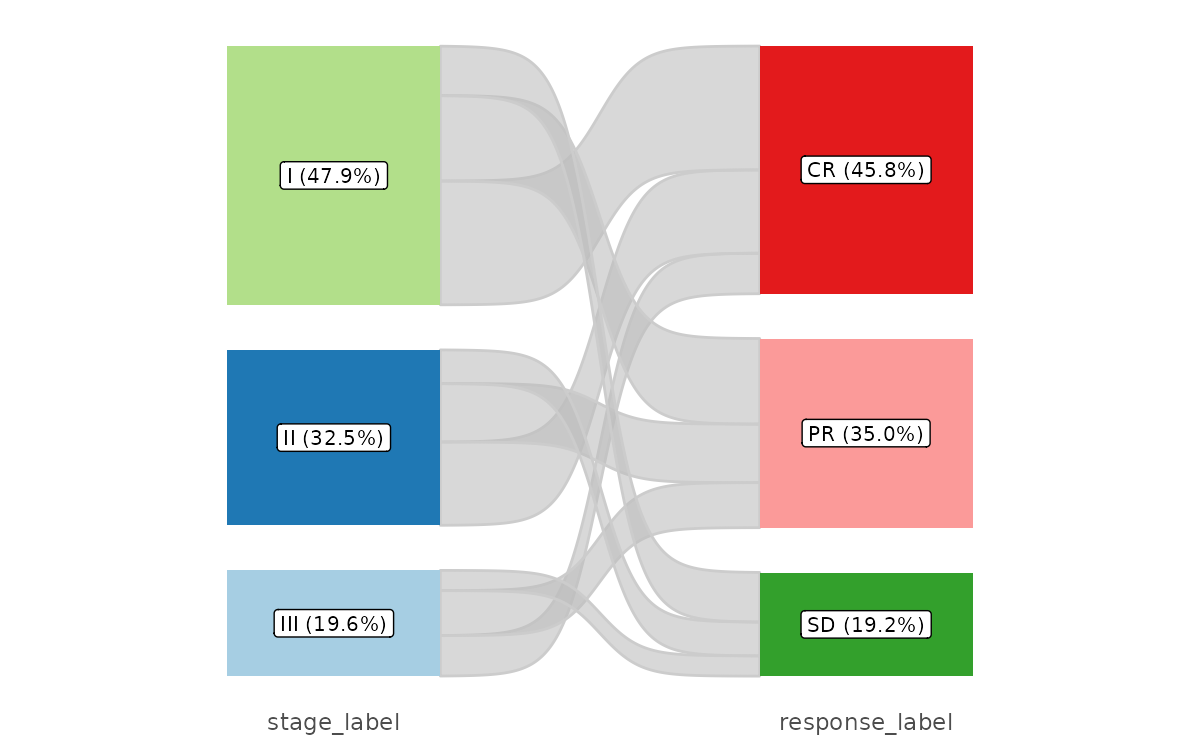
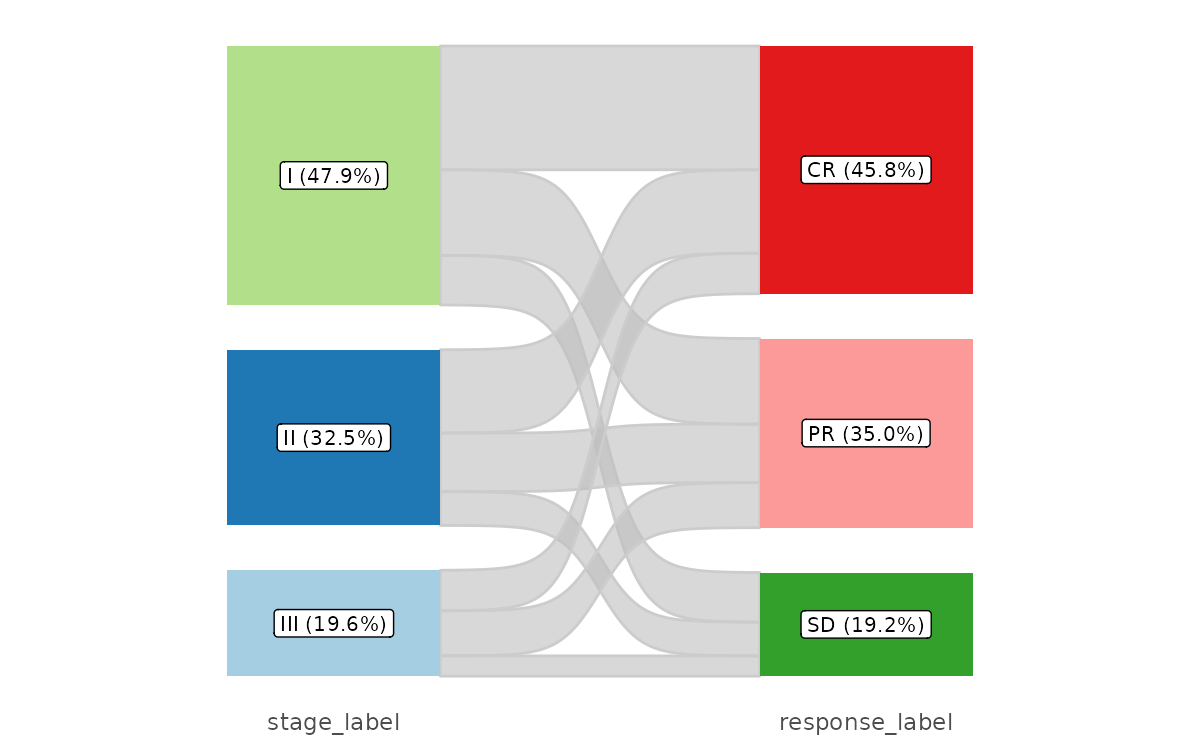
Update Sankey examples for grouped styling and direct PDF saving

diff --git a/docs/utilsr/flow-guide.html b/docs/utilsr/flow-guide.html
@@ -6,7 +6,7 @@
 
 <meta name="viewport" content="width=device-width, initial-scale=1.0, user-scalable=yes">
 
-<meta name="description" content="plt_dist 的分派，plt_alluvial 的比例、间隔和命名 list，plt_sankey 的节点次序与标签；22 个实际图形示例。">
+<meta name="description" content="plt_dist 的分派，plt_alluvial 的比例、间隔和命名 list，plt_sankey 的节点次序与标签；26 个实际图形示例。">
 
 <title>分类分布与流向：堆积柱、Alluvial 和 Sankey – R 包开发笔记</title>
 <style>
@@ -1021,9 +1021,9 @@ pre > code.sourceCode > span > a:first-child::before { text-decoration: underlin
       </div>
       <ul id="quarto-sidebar-section-27" class="collapse list-unstyled sidebar-section depth1 ">
           <li class="sidebar-item">
-<div class="sidebar-item-container">
-<a class="sidebar-item-text sidebar-link" href="../troubleshooting/windows-r-encoding-nul.html"><span class="chapter-title">Windows R 编码与旧缓存</span></a>
-</div>
+  <div class="sidebar-item-container">
+  <a href="../troubleshooting/windows-r-encoding-nul.html" class="sidebar-item-text sidebar-link"><span class="chapter-title">Windows R 编码与旧缓存</span></a>
+  </div>
 </li>
           <li class="sidebar-item">
   <div class="sidebar-item-container">
@@ -1060,6 +1060,7 @@ pre > code.sourceCode > span > a:first-child::before { text-decoration: underlin
   <li><a href="#标签内容与筛选" id="toc-标签内容与筛选" class="nav-link" data-scroll-target="#标签内容与筛选">标签内容与筛选</a></li>
   <li><a href="#节点路径与标签" id="toc-节点路径与标签" class="nav-link" data-scroll-target="#节点路径与标签">节点路径与标签</a></li>
   <li><a href="#真实保存示例" id="toc-真实保存示例" class="nav-link" data-scroll-target="#真实保存示例">真实保存示例</a></li>
+  <li><a href="#sankey-controls" id="toc-sankey-controls" class="nav-link" data-scroll-target="#sankey-controls">标签映射、显示与保存</a></li>
   <li><a href="#output" id="toc-output" class="nav-link" data-scroll-target="#output">返回对象、保存与使用边界</a></li>
   <li><a href="#interfaces" id="toc-interfaces" class="nav-link" data-scroll-target="#interfaces">当前完整接口</a></li>
   <li><a href="#references" id="toc-references" class="nav-link" data-scroll-target="#references">验证范围与参考</a></li>
@@ -1090,7 +1091,7 @@ pre > code.sourceCode > span > a:first-child::before { text-decoration: underlin
     <div>
     <div class="quarto-title-meta-heading">修改于</div>
     <div class="quarto-title-meta-contents">
-      <p class="date-modified">2026年10月10日</p>
+      <p class="date-modified">2026年10月12日</p>
     </div>
   </div>
 
@@ -1102,7 +1103,7 @@ pre > code.sourceCode > span > a:first-child::before { text-decoration: underlin
 
 
 <p>plt_dist 的分派，plt_alluvial 的比例、间隔和命名 list，plt_sankey 的节点次序与标签。各节用固定输入比较重要参数，标签页中展示可复制代码与实际结果。</p>
-<p><strong>核对记录：</strong> 本次按公开源码 <code>85ea172</code> 在 WSL R 4.4.3 实际绘制一张两行 Sankey 标签图，并核对换行前后的计数和百分比相同。既有 21 张图保留历史执行结果，全页现有 22 张实际图形。包版本仍为 UtilsR <strong>0.6.8</strong>；使用固定随机种子的模拟数据。</p>
+<p><strong>核对记录：</strong> 2026-10-12 按已推送 UtilsR <code>fc078ec</code> 的接口执行 10 个 Sankey 示例，重绘旧图并新增 4 张参数对照图，实际核验节点计数与 PDF 保存。其余 Alluvial / bar 图保留原执行结果；全页现有 26 张图。包版本仍为 0.6.8，需按提交判断是否支持命名 list 参数。</p>
 <section id="data" class="level2">
 <h2 class="anchored" data-anchor-id="data">数据准备与输入约定</h2>
 <p>每行是一条模拟观测，stage、regimen、response 是同一行的分类属性。tile_dat 专用于每格唯一的类别矩阵，与行级流向数据分别准备。</p>
@@ -1188,13 +1189,13 @@ pre > code.sourceCode > span > a:first-child::before { text-decoration: underlin
 </tr>
 <tr class="odd">
 <td style="text-align: left;">Sankey 标签</td>
-<td style="text-align: left;"><code>show_text="all"</code>、<code>label_size=3</code>、<code>label_hjust=0.5</code></td>
-<td style="text-align: left;">all/n/pct/name/all_wrap；百分比分母是输入总行数</td>
+<td style="text-align: left;"><code>show_text="all"</code>、<code>label_args=list(size=3,lineheight=1.2,hjust=0.5,...)</code></td>
+<td style="text-align: left;">all/n/pct/name/all_wrap/none；百分比分母是输入总行数</td>
 </tr>
 <tr class="even">
 <td style="text-align: left;">Sankey 外观</td>
-<td style="text-align: left;"><code>width=0.4</code>、<code>space=NULL</code>、<code>alpha=0.6</code>、<code>palette=NULL</code></td>
-<td style="text-align: left;">palette 控制节点填色，当前流带固定灰色；alpha 改流带透明度</td>
+<td style="text-align: left;"><code>node_args</code> 控制宽度和间隔；<code>flow_args</code> 控制颜色与透明度</td>
+<td style="text-align: left;">palette 只控制节点填色；各 list 支持部分覆盖，未知或重复字段报错</td>
 </tr>
 </tbody>
 </table>
@@ -1402,7 +1403,7 @@ pre > code.sourceCode > span > a:first-child::before { text-decoration: underlin
 <div class="code-copy-outer-scaffold"><div class="sourceCode" id="cb17"><pre class="sourceCode r code-with-copy"><code class="sourceCode r"><span id="cb17-1"><a href="#cb17-1" aria-hidden="true" tabindex="-1"></a><span class="fu">plt_sankey</span>(dat, <span class="fu">c</span>(<span class="st">"stage"</span>, <span class="st">"response"</span>))</span></code></pre></div><button title="复制到剪贴板" class="code-copy-button"><i class="bi"></i></button></div>
 <div class="quarto-figure quarto-figure-center">
 <figure class="figure">
-<p><a href="images/flow-guide/sankey-two.png" class="lightbox" data-gallery="quarto-lightbox-gallery-16" title="每一行在两列变量之间形成连接；节点人数和比例使用全体输入行。"><img src="images/flow-guide/sankey-two.png" class="img-fluid figure-img" alt="分类分布与流向：堆积柱、Alluvial 和 Sankey；两列节点路径；固定模拟数据的实际参数对照结果。" loading="lazy" decoding="async" width="1200" height="750" srcset="../assets/figure-previews/ca2f9d970665852a75013dc9897a15d5.webp"></a></p>
+<p><a href="images/flow-guide/sankey-two.png" class="lightbox" data-gallery="quarto-lightbox-gallery-16" title="每一行在两列变量之间形成连接；节点人数和比例使用全体输入行。"><img src="images/flow-guide/sankey-two.png" class="img-fluid figure-img" alt="分类分布与流向：堆积柱、Alluvial 和 Sankey；两列节点路径；固定模拟数据的实际参数对照结果。" loading="lazy" decoding="async" width="1200" height="750" srcset="../assets/figure-previews/e30ae6d0297927b88d1943f90a6abb12.webp"></a></p>
 <figcaption>每一行在两列变量之间形成连接；节点人数和比例使用全体输入行。</figcaption>
 </figure>
 </div>
@@ -1412,7 +1413,7 @@ pre > code.sourceCode > span > a:first-child::before { text-decoration: underlin
 <div class="code-copy-outer-scaffold"><div class="sourceCode" id="cb18"><pre class="sourceCode r code-with-copy"><code class="sourceCode r"><span id="cb18-1"><a href="#cb18-1" aria-hidden="true" tabindex="-1"></a><span class="fu">plt_sankey</span>(dat, <span class="fu">c</span>(<span class="st">"stage"</span>, <span class="st">"regimen"</span>, <span class="st">"response"</span>), <span class="at">show_text =</span> <span class="st">"all"</span>)</span></code></pre></div><button title="复制到剪贴板" class="code-copy-button"><i class="bi"></i></button></div>
 <div class="quarto-figure quarto-figure-center">
 <figure class="figure">
-<p><a href="images/flow-guide/sankey-three.png" class="lightbox" data-gallery="quarto-lightbox-gallery-17" title="三个变量按顺序显示，同一行的组合形成完整路径；不自动产生时间或因果含义。"><img src="images/flow-guide/sankey-three.png" class="img-fluid figure-img" alt="分类分布与流向：堆积柱、Alluvial 和 Sankey；三列节点路径；固定模拟数据的实际参数对照结果。" loading="lazy" decoding="async" width="1650" height="750" srcset="../assets/figure-previews/dac32c0af2d4d10f6a3565cc2501f416.webp"></a></p>
+<p><a href="images/flow-guide/sankey-three.png" class="lightbox" data-gallery="quarto-lightbox-gallery-17" title="三个变量按顺序显示，同一行的组合形成完整路径；不自动产生时间或因果含义。"><img src="images/flow-guide/sankey-three.png" class="img-fluid figure-img" alt="分类分布与流向：堆积柱、Alluvial 和 Sankey；三列节点路径；固定模拟数据的实际参数对照结果。" loading="lazy" decoding="async" width="1650" height="750" srcset="../assets/figure-previews/845ac85983d7793fa17b01a103a7f3da.webp"></a></p>
 <figcaption>三个变量按顺序显示，同一行的组合形成完整路径；不自动产生时间或因果含义。</figcaption>
 </figure>
 </div>
@@ -1430,21 +1431,22 @@ pre > code.sourceCode > span > a:first-child::before { text-decoration: underlin
 <div id="tabset-5-4" class="tab-pane" role="tabpanel" aria-labelledby="tabset-5-4-tab">
 <p>palette 改节点色，流带仍为灰色；百分比是节点在输入总行数中的比例。</p>
 <div class="code-copy-outer-scaffold"><div class="sourceCode" id="cb20"><pre class="sourceCode r code-with-copy"><code class="sourceCode r"><span id="cb20-1"><a href="#cb20-1" aria-hidden="true" tabindex="-1"></a><span class="fu">plt_sankey</span>(dat, <span class="fu">c</span>(<span class="st">"stage"</span>, <span class="st">"response"</span>), <span class="at">show_text =</span> <span class="st">"pct"</span>,</span>
-<span id="cb20-2"><a href="#cb20-2" aria-hidden="true" tabindex="-1"></a>           <span class="at">palette =</span> <span class="st">"Paired"</span>, <span class="at">label_size =</span> <span class="fl">3.5</span>)</span></code></pre></div><button title="复制到剪贴板" class="code-copy-button"><i class="bi"></i></button></div>
+<span id="cb20-2"><a href="#cb20-2" aria-hidden="true" tabindex="-1"></a>           <span class="at">palette =</span> <span class="st">"Paired"</span>, <span class="at">label_args =</span> <span class="fu">list</span>(<span class="at">size =</span> <span class="fl">3.5</span>))</span></code></pre></div><button title="复制到剪贴板" class="code-copy-button"><i class="bi"></i></button></div>
 <div class="quarto-figure quarto-figure-center">
 <figure class="figure">
-<p><a href="images/flow-guide/sankey-percent.png" class="lightbox" data-gallery="quarto-lightbox-gallery-19" title="palette 改节点色，流带仍为灰色；百分比是节点在输入总行数中的比例。"><img src="images/flow-guide/sankey-percent.png" class="img-fluid figure-img" alt="分类分布与流向：堆积柱、Alluvial 和 Sankey；百分比标签；固定模拟数据的实际参数对照结果。" loading="lazy" decoding="async" width="1200" height="750" srcset="../assets/figure-previews/4e309a332780de4361e8fa0d517396e9.webp"></a></p>
+<p><a href="images/flow-guide/sankey-percent.png" class="lightbox" data-gallery="quarto-lightbox-gallery-19" title="palette 改节点色，流带仍为灰色；百分比是节点在输入总行数中的比例。"><img src="images/flow-guide/sankey-percent.png" class="img-fluid figure-img" alt="分类分布与流向：堆积柱、Alluvial 和 Sankey；百分比标签；固定模拟数据的实际参数对照结果。" loading="lazy" decoding="async" width="1200" height="750" srcset="../assets/figure-previews/c2c5e7ac3790a60891e9b694a6a71a79.webp"></a></p>
 <figcaption>palette 改节点色，流带仍为灰色；百分比是节点在输入总行数中的比例。</figcaption>
 </figure>
 </div>
 </div>
 <div id="tabset-5-5" class="tab-pane" role="tabpanel" aria-labelledby="tabset-5-5-tab">
 <p>space=0 移除节点间隔，width 控制节点和端点宽度；标签显示名称与人数。</p>
-<div class="code-copy-outer-scaffold"><div class="sourceCode" id="cb21"><pre class="sourceCode r code-with-copy"><code class="sourceCode r"><span id="cb21-1"><a href="#cb21-1" aria-hidden="true" tabindex="-1"></a><span class="fu">plt_sankey</span>(dat, <span class="fu">c</span>(<span class="st">"stage"</span>, <span class="st">"regimen"</span>, <span class="st">"response"</span>), <span class="at">width =</span> <span class="fl">0.25</span>, <span class="at">space =</span> <span class="dv">0</span>,</span>
-<span id="cb21-2"><a href="#cb21-2" aria-hidden="true" tabindex="-1"></a>           <span class="at">alpha =</span> <span class="fl">0.35</span>, <span class="at">show_text =</span> <span class="st">"n"</span>, <span class="at">label_size =</span> <span class="dv">3</span>, <span class="at">base_size =</span> <span class="dv">13</span>)</span></code></pre></div><button title="复制到剪贴板" class="code-copy-button"><i class="bi"></i></button></div>
+<div class="code-copy-outer-scaffold"><div class="sourceCode" id="cb21"><pre class="sourceCode r code-with-copy"><code class="sourceCode r"><span id="cb21-1"><a href="#cb21-1" aria-hidden="true" tabindex="-1"></a><span class="fu">plt_sankey</span>(dat, <span class="fu">c</span>(<span class="st">"stage"</span>, <span class="st">"regimen"</span>, <span class="st">"response"</span>),</span>
+<span id="cb21-2"><a href="#cb21-2" aria-hidden="true" tabindex="-1"></a>  <span class="at">node_args =</span> <span class="fu">list</span>(<span class="at">width =</span> <span class="fl">0.25</span>, <span class="at">space =</span> <span class="dv">0</span>), <span class="at">flow_args =</span> <span class="fu">list</span>(<span class="at">alpha =</span> <span class="fl">0.35</span>),</span>
+<span id="cb21-3"><a href="#cb21-3" aria-hidden="true" tabindex="-1"></a>  <span class="at">show_text =</span> <span class="st">"n"</span>, <span class="at">label_args =</span> <span class="fu">list</span>(<span class="at">size =</span> <span class="dv">3</span>), <span class="at">base_size =</span> <span class="dv">13</span>)</span></code></pre></div><button title="复制到剪贴板" class="code-copy-button"><i class="bi"></i></button></div>
 <div class="quarto-figure quarto-figure-center">
 <figure class="figure">
-<p><a href="images/flow-guide/sankey-space.png" class="lightbox" data-gallery="quarto-lightbox-gallery-20" title="space=0 移除节点间隔，width 控制节点和端点宽度；标签显示名称与人数。"><img src="images/flow-guide/sankey-space.png" class="img-fluid figure-img" alt="分类分布与流向：堆积柱、Alluvial 和 Sankey；宽度、间隔和透明度；固定模拟数据的实际参数对照结果。" loading="lazy" decoding="async" width="1650" height="750" srcset="../assets/figure-previews/fa87cd199538167d38c049e3714a6311.webp"></a></p>
+<p><a href="images/flow-guide/sankey-space.png" class="lightbox" data-gallery="quarto-lightbox-gallery-20" title="space=0 移除节点间隔，width 控制节点和端点宽度；标签显示名称与人数。"><img src="images/flow-guide/sankey-space.png" class="img-fluid figure-img" alt="分类分布与流向：堆积柱、Alluvial 和 Sankey；宽度、间隔和透明度；固定模拟数据的实际参数对照结果。" loading="lazy" decoding="async" width="1650" height="750" srcset="../assets/figure-previews/7ba01320f474ee80f3f0378fa122266a.webp"></a></p>
 <figcaption>space=0 移除节点间隔，width 控制节点和端点宽度；标签显示名称与人数。</figcaption>
 </figure>
 </div>
@@ -1478,21 +1480,78 @@ pre > code.sourceCode > span > a:first-child::before { text-decoration: underlin
 <p><code>show_text = "all_wrap"</code> 把组名放在第一行，把人数和百分比放在第二行，适合窄节点或较长名称。默认 <code>"all"</code> 仍为单行，两个设置的节点计数、流量和百分比分母相同。本例沿用前文同一份 240 行模拟数据，没有因换行筛掉任何观察。</p>
 <!-- sankey-wrap:start -->
 <div class="code-copy-outer-scaffold"><div class="sourceCode" id="cb23"><pre class="sourceCode r code-with-copy"><code class="sourceCode r"><span id="cb23-1"><a href="#cb23-1" aria-hidden="true" tabindex="-1"></a>p_wrap <span class="ot">&lt;-</span> <span class="fu">plt_sankey</span>(dat, <span class="fu">c</span>(<span class="st">"stage"</span>, <span class="st">"regimen"</span>, <span class="st">"response"</span>),</span>
-<span id="cb23-2"><a href="#cb23-2" aria-hidden="true" tabindex="-1"></a>  <span class="at">show_text =</span> <span class="st">"all_wrap"</span>, <span class="at">label_size =</span> <span class="dv">3</span>, <span class="at">label_hjust =</span> <span class="fl">0.5</span>)</span>
+<span id="cb23-2"><a href="#cb23-2" aria-hidden="true" tabindex="-1"></a>  <span class="at">show_text =</span> <span class="st">"all_wrap"</span>, <span class="at">label_args =</span> <span class="fu">list</span>(<span class="at">size =</span> <span class="dv">3</span>, <span class="at">hjust =</span> <span class="fl">0.5</span>))</span>
 <span id="cb23-3"><a href="#cb23-3" aria-hidden="true" tabindex="-1"></a>p_wrap</span></code></pre></div><button title="复制到剪贴板" class="code-copy-button"><i class="bi"></i></button></div>
 <!-- sankey-wrap:end -->
 <div class="quarto-figure quarto-figure-center">
 <figure class="figure">
-<p><a href="images/flow-guide/sankey-wrap.png" class="lightbox" data-gallery="quarto-lightbox-gallery-22" title="组名在第一行，人数与百分比在第二行；240 人在三列间的流量保持不变。"><img src="images/flow-guide/sankey-wrap.png" class="img-fluid figure-img" alt="三列 Sankey 图使用两行节点标签，第一行为组名，第二行为人数和占 240 人的百分比。" loading="lazy" decoding="async" width="1350" height="900" srcset="../assets/figure-previews/ac9bf3721eb365404113b752b5a37a35.webp"></a></p>
+<p><a href="images/flow-guide/sankey-wrap.png" class="lightbox" data-gallery="quarto-lightbox-gallery-22" title="组名在第一行，人数与百分比在第二行；240 人在三列间的流量保持不变。"><img src="images/flow-guide/sankey-wrap.png" class="img-fluid figure-img" alt="三列 Sankey 图使用两行节点标签，第一行为组名，第二行为人数和占 240 人的百分比。" loading="lazy" decoding="async" width="1350" height="900" srcset="../assets/figure-previews/171324298be634eaf96844893228a9a0.webp"></a></p>
 <figcaption>组名在第一行，人数与百分比在第二行；240 人在三列间的流量保持不变。</figcaption>
 </figure>
 </div>
-<p>源码：<a href="https://github.com/HUI950319/UtilsR/blob/85ea172/R/plt_sankey.R">多行 Sankey 标签</a>。长标签仍应结合 label_size、设备尺寸和节点间距调整。</p>
+<p>源码：<a href="https://github.com/HUI950319/UtilsR/blob/fc078ec/R/plt_sankey.R">当前 Sankey 接口</a>。旧 <code>alpha</code> 改为 <code>flow_args$alpha</code>，<code>width/space</code> 改入 <code>node_args</code>，<code>label_size/label_hjust</code> 改为 <code>label_args$size/hjust</code>。长标签结合设备尺寸、节点间距及行距调整。</p>
 </section>
+</section>
+<section id="sankey-controls" class="level2">
+<h2 class="anchored" data-anchor-id="sankey-controls">标签映射、显示与保存</h2>
+<p><code>vars</code> 的命名向量将真实列名映射为显示标题；空标题隐藏该轴标签，换行保留。重复类别名在不同变量中仍为独立节点，不会错误合并流量。<code>min_pct</code> 只隐藏小类别的文字，不删除观察、节点或流带。</p>
+<div class="tabset-margin-container"></div><div class="panel-tabset">
+<ul class="nav nav-tabs" role="tablist"><li class="nav-item" role="presentation"><a class="nav-link active" id="tabset-7-1-tab" data-bs-toggle="tab" data-bs-target="#tabset-7-1" role="tab" aria-controls="tabset-7-1" aria-selected="true" href="">标题映射与紧凑行距</a></li><li class="nav-item" role="presentation"><a class="nav-link" id="tabset-7-2-tab" data-bs-toggle="tab" data-bs-target="#tabset-7-2" role="tab" aria-controls="tabset-7-2" aria-selected="false" href="">纯文字与小类别阈值</a></li><li class="nav-item" role="presentation"><a class="nav-link" id="tabset-7-3-tab" data-bs-toggle="tab" data-bs-target="#tabset-7-3" role="tab" aria-controls="tabset-7-3" aria-selected="false" href="">流带与节点边界</a></li><li class="nav-item" role="presentation"><a class="nav-link" id="tabset-7-4-tab" data-bs-toggle="tab" data-bs-target="#tabset-7-4" role="tab" aria-controls="tabset-7-4" aria-selected="false" href="">隐藏标签并直接保存</a></li></ul>
+<div class="tab-content">
+<div id="tabset-7-1" class="tab-pane active" role="tabpanel" aria-labelledby="tabset-7-1-tab">
+<div class="code-copy-outer-scaffold"><div class="sourceCode" id="cb24"><pre class="sourceCode r code-with-copy"><code class="sourceCode r"><span id="cb24-1"><a href="#cb24-1" aria-hidden="true" tabindex="-1"></a>p_mapped <span class="ot">&lt;-</span> <span class="fu">plt_sankey</span>(dat, <span class="fu">c</span>(<span class="at">stage =</span> <span class="st">"Disease stage"</span>, <span class="at">regimen =</span> <span class="st">"Treatment"</span>, <span class="at">response =</span> <span class="st">"Response"</span>),</span>
+<span id="cb24-2"><a href="#cb24-2" aria-hidden="true" tabindex="-1"></a>  <span class="at">show_text =</span> <span class="st">"all_wrap"</span>, <span class="at">label_args =</span> <span class="fu">list</span>(<span class="at">lineheight =</span> <span class="fl">0.9</span>))</span>
+<span id="cb24-3"><a href="#cb24-3" aria-hidden="true" tabindex="-1"></a>p_mapped</span></code></pre></div><button title="复制到剪贴板" class="code-copy-button"><i class="bi"></i></button></div>
+<div class="quarto-figure quarto-figure-center">
+<figure class="figure">
+<p><a href="images/flow-guide/sankey-mapped.png" class="lightbox" data-gallery="quarto-lightbox-gallery-23" title="标题改为显示文字，标签的两行间距缩小。"><img src="images/flow-guide/sankey-mapped.png" class="img-fluid figure-img" alt="三列 Sankey 使用映射后的英文轴标题，两行节点标签保持计数和百分比，行距为0.9。" loading="lazy" decoding="async" width="1350" height="900" srcset="../assets/figure-previews/9eadbab6c7bc839e5f6a8eb50c189d42.webp"></a></p>
+<figcaption>标题改为显示文字，标签的两行间距缩小。</figcaption>
+</figure>
+</div>
+</div>
+<div id="tabset-7-2" class="tab-pane" role="tabpanel" aria-labelledby="tabset-7-2-tab">
+<div class="code-copy-outer-scaffold"><div class="sourceCode" id="cb25"><pre class="sourceCode r code-with-copy"><code class="sourceCode r"><span id="cb25-1"><a href="#cb25-1" aria-hidden="true" tabindex="-1"></a>p_plain <span class="ot">&lt;-</span> <span class="fu">plt_sankey</span>(dat, <span class="fu">c</span>(<span class="st">"stage"</span>, <span class="st">"regimen"</span>, <span class="st">"response"</span>),</span>
+<span id="cb25-2"><a href="#cb25-2" aria-hidden="true" tabindex="-1"></a>  <span class="at">label_args =</span> <span class="fu">list</span>(<span class="at">box =</span> <span class="cn">FALSE</span>, <span class="at">min_pct =</span> <span class="fl">0.2</span>, <span class="at">color =</span> <span class="st">"#263238"</span>))</span>
+<span id="cb25-3"><a href="#cb25-3" aria-hidden="true" tabindex="-1"></a>p_plain</span></code></pre></div><button title="复制到剪贴板" class="code-copy-button"><i class="bi"></i></button></div>
+<div class="quarto-figure quarto-figure-center">
+<figure class="figure">
+<p><a href="images/flow-guide/sankey-plain.png" class="lightbox" data-gallery="quarto-lightbox-gallery-24" title="人数低于全样本20%的节点保留，只有文字不显示；其余标签去掉白框。"><img src="images/flow-guide/sankey-plain.png" class="img-fluid figure-img" alt="Sankey保留全部节点和连接，小类别不显示标签，较大类别显示没有白框的名称人数百分比。" loading="lazy" decoding="async" width="1350" height="900" srcset="../assets/figure-previews/95f45a6da68f9ee6265369116ded3903.webp"></a></p>
+<figcaption>人数低于全样本20%的节点保留，只有文字不显示；其余标签去掉白框。</figcaption>
+</figure>
+</div>
+</div>
+<div id="tabset-7-3" class="tab-pane" role="tabpanel" aria-labelledby="tabset-7-3-tab">
+<div class="code-copy-outer-scaffold"><div class="sourceCode" id="cb26"><pre class="sourceCode r code-with-copy"><code class="sourceCode r"><span id="cb26-1"><a href="#cb26-1" aria-hidden="true" tabindex="-1"></a>p_flow <span class="ot">&lt;-</span> <span class="fu">plt_sankey</span>(dat, <span class="fu">c</span>(<span class="st">"stage"</span>, <span class="st">"regimen"</span>, <span class="st">"response"</span>),</span>
+<span id="cb26-2"><a href="#cb26-2" aria-hidden="true" tabindex="-1"></a>  <span class="at">flow_args =</span> <span class="fu">list</span>(<span class="at">fill =</span> <span class="st">"#81B1C6"</span>, <span class="at">color =</span> <span class="cn">NA</span>, <span class="at">alpha =</span> <span class="fl">0.35</span>, <span class="at">smooth =</span> <span class="dv">12</span>),</span>
+<span id="cb26-3"><a href="#cb26-3" aria-hidden="true" tabindex="-1"></a>  <span class="at">node_args =</span> <span class="fu">list</span>(<span class="at">width =</span> <span class="fl">0.3</span>, <span class="at">space =</span> <span class="dv">3</span>, <span class="at">color =</span> <span class="st">"#37474F"</span>, <span class="at">linewidth =</span> <span class="fl">0.4</span>))</span>
+<span id="cb26-4"><a href="#cb26-4" aria-hidden="true" tabindex="-1"></a>p_flow</span></code></pre></div><button title="复制到剪贴板" class="code-copy-button"><i class="bi"></i></button></div>
+<div class="quarto-figure quarto-figure-center">
+<figure class="figure">
+<p><a href="images/flow-guide/sankey-flow-style.png" class="lightbox" data-gallery="quarto-lightbox-gallery-25" title="蓝灰流带、描边节点和自定义间隔；标签与节点中心对齐。"><img src="images/flow-guide/sankey-flow-style.png" class="img-fluid figure-img" alt="三列Sankey流带为蓝灰色且透明，节点有细边框，节点间隔为3个计数单位。" loading="lazy" decoding="async" width="1350" height="900" srcset="../assets/figure-previews/83d98af0600a3a252a5e06813980854a.webp"></a></p>
+<figcaption>蓝灰流带、描边节点和自定义间隔；标签与节点中心对齐。</figcaption>
+</figure>
+</div>
+</div>
+<div id="tabset-7-4" class="tab-pane" role="tabpanel" aria-labelledby="tabset-7-4-tab">
+<div class="code-copy-outer-scaffold"><div class="sourceCode" id="cb27"><pre class="sourceCode r code-with-copy"><code class="sourceCode r"><span id="cb27-1"><a href="#cb27-1" aria-hidden="true" tabindex="-1"></a>pdf_sankey <span class="ot">&lt;-</span> <span class="fu">file.path</span>(<span class="fu">tempdir</span>(), <span class="st">"sankey-no-labels.pdf"</span>)</span>
+<span id="cb27-2"><a href="#cb27-2" aria-hidden="true" tabindex="-1"></a>p_none <span class="ot">&lt;-</span> <span class="fu">plt_sankey</span>(dat, <span class="fu">c</span>(<span class="st">"stage"</span>, <span class="st">"regimen"</span>, <span class="st">"response"</span>), <span class="at">show_text =</span> <span class="st">"none"</span>,</span>
+<span id="cb27-3"><a href="#cb27-3" aria-hidden="true" tabindex="-1"></a>  <span class="at">save =</span> <span class="fu">list</span>(<span class="at">filename =</span> pdf_sankey, <span class="at">width =</span> <span class="dv">9</span>, <span class="at">height =</span> <span class="dv">6</span>))</span>
+<span id="cb27-4"><a href="#cb27-4" aria-hidden="true" tabindex="-1"></a><span class="fu">stopifnot</span>(<span class="fu">file.exists</span>(pdf_sankey))</span>
+<span id="cb27-5"><a href="#cb27-5" aria-hidden="true" tabindex="-1"></a>p_none</span></code></pre></div><button title="复制到剪贴板" class="code-copy-button"><i class="bi"></i></button></div>
+<div class="quarto-figure quarto-figure-center">
+<figure class="figure">
+<p><a href="images/flow-guide/sankey-no-labels.png" class="lightbox" data-gallery="quarto-lightbox-gallery-26" title="不画节点标签，仍显示完整节点与流量；本例已实际写出PDF。"><img src="images/flow-guide/sankey-no-labels.png" class="img-fluid figure-img" alt="三列Sankey隐藏节点标签，所有节点和流带仍可见，对应PDF已验证。" loading="lazy" decoding="async" width="1350" height="900" srcset="../assets/figure-previews/be2aec51f1100e363cf97ce1aae69367.webp"></a></p>
+<figcaption>不画节点标签，仍显示完整节点与流量；本例已实际写出PDF。</figcaption>
+</figure>
+</div>
+</div>
+</div>
+</div>
+<p><code>label_args$size</code> 为 mm，<code>base_size</code> 为 pt，<code>node_args$space</code> 为计数单位，<code>min_pct</code> 为0–1比例。<code>lineheight</code> 是相对文字字号的倍数，不是标签框内边距。保存只接受 filename、width、height，后两者为英寸；空 list 或 NULL 不保存。</p>
 </section>
 <section id="output" class="level2">
 <h2 class="anchored" data-anchor-id="output">返回对象、保存与使用边界</h2>
-<p>三个入口返回 ggplot。<code>plt_alluvial()</code> 的非空 save 调用 RegR::save_plt 保存 PDF，本页已实际核对一次；另外两个入口当前没有 save 参数，可外部使用 ggsave。</p>
+<p>三个入口返回 ggplot。<code>plt_alluvial()</code> 与 <code>plt_sankey()</code> 的非空 save 调用 RegR::save_plt 保存 PDF；<code>plt_dist()</code> 当前没有 save 参数，可对返回图外部保存。本次保存到临时目录，并读回 PDF 页数和尺寸。</p>
 <p><code>plt_alluvial()</code> 连接的是同一 group 在不同类别中的边际分布，每个 facet×cat_var 独立归一化；不能据此读出某个个体从一类别流向另一类别。<code>plt_sankey()</code> 使用行内多变量组合建立路径。三列 <code>plt_dist()</code> 则是类别矩阵，输入若一个格子有多个第三列类别，图层会重叠；本页用每格唯一的数据演示。</p>
 <p>流带的方向与宽度来自输入结构和频数，不构成因果作用估计。NA 行的处理按所选分支核对；plt_alluvial 会移除必要变量中的不完整行并报告。</p>
 </section>
@@ -1503,30 +1562,35 @@ pre > code.sourceCode > span > a:first-child::before { text-decoration: underlin
 <summary>
 公共函数签名
 </summary>
-<div class="code-copy-outer-scaffold"><div class="sourceCode" id="cb24"><pre class="sourceCode r code-with-copy"><code class="sourceCode r"><span id="cb24-1"><a href="#cb24-1" aria-hidden="true" tabindex="-1"></a>plt_dist <span class="ot">&lt;-</span></span>
-<span id="cb24-2"><a href="#cb24-2" aria-hidden="true" tabindex="-1"></a><span class="cf">function</span> (data, dis_vars, <span class="at">type =</span> <span class="fu">c</span>(<span class="st">"alluvial"</span>, <span class="st">"bar"</span>), <span class="at">facet =</span> <span class="cn">NULL</span>, <span class="at">color =</span> <span class="cn">NULL</span>, <span class="at">alpha =</span> <span class="fl">0.7</span>,</span>
-<span id="cb24-3"><a href="#cb24-3" aria-hidden="true" tabindex="-1"></a>    <span class="at">label =</span> <span class="fu">c</span>(<span class="st">"count_percent"</span>, <span class="st">"count"</span>, <span class="st">"percent"</span>, <span class="st">"none"</span>), <span class="at">gap =</span> <span class="fl">0.01</span>, <span class="at">curve_type =</span> <span class="st">"linear"</span>,</span>
-<span id="cb24-4"><a href="#cb24-4" aria-hidden="true" tabindex="-1"></a>    <span class="at">theme_use =</span> <span class="fu">theme_heat</span>(<span class="dv">14</span>))</span>
-<span id="cb24-5"><a href="#cb24-5" aria-hidden="true" tabindex="-1"></a><span class="cn">NULL</span></span>
-<span id="cb24-6"><a href="#cb24-6" aria-hidden="true" tabindex="-1"></a></span>
-<span id="cb24-7"><a href="#cb24-7" aria-hidden="true" tabindex="-1"></a>plt_alluvial <span class="ot">&lt;-</span></span>
-<span id="cb24-8"><a href="#cb24-8" aria-hidden="true" tabindex="-1"></a><span class="cf">function</span> (data, cat_var, group, <span class="at">facet =</span> <span class="cn">NULL</span>, <span class="at">y_type =</span> <span class="fu">c</span>(<span class="st">"percent"</span>, <span class="st">"count"</span>), <span class="at">color =</span> pal_lancet,</span>
-<span id="cb24-9"><a href="#cb24-9" aria-hidden="true" tabindex="-1"></a>    <span class="at">flow_args =</span> <span class="fu">list</span>(<span class="at">alpha =</span> <span class="fl">0.4</span>, <span class="at">curve_type =</span> <span class="st">"linear"</span>), <span class="at">stratum_args =</span> <span class="fu">list</span>(<span class="at">width =</span> <span class="fl">0.5</span>,</span>
-<span id="cb24-10"><a href="#cb24-10" aria-hidden="true" tabindex="-1"></a>        <span class="at">color =</span> <span class="st">"gray50"</span>, <span class="at">linewidth =</span> <span class="fl">0.3</span>, <span class="at">gap =</span> <span class="fl">0.01</span>), <span class="at">label_args =</span> <span class="fu">list</span>(<span class="at">style =</span> <span class="st">"count_percent"</span>,</span>
-<span id="cb24-11"><a href="#cb24-11" aria-hidden="true" tabindex="-1"></a>        <span class="at">min_pct =</span> <span class="dv">0</span>, <span class="at">size =</span> <span class="dv">3</span>, <span class="at">color =</span> <span class="st">"black"</span>, <span class="at">box =</span> <span class="cn">TRUE</span>, <span class="at">fill =</span> <span class="st">"white"</span>, <span class="at">alpha =</span> <span class="dv">1</span>), <span class="at">facet_args =</span> <span class="fu">list</span>(<span class="at">nrow =</span> <span class="cn">NULL</span>,</span>
-<span id="cb24-12"><a href="#cb24-12" aria-hidden="true" tabindex="-1"></a>        <span class="at">ncol =</span> <span class="cn">NULL</span>, <span class="at">scales =</span> <span class="st">"fixed"</span>), <span class="at">legend_args =</span> <span class="fu">list</span>(<span class="at">ncol =</span> <span class="dv">1</span>, <span class="at">position =</span> <span class="st">"right"</span>), <span class="at">theme_use =</span> <span class="fu">theme_alluvia</span>(<span class="dv">15</span>),</span>
-<span id="cb24-13"><a href="#cb24-13" aria-hidden="true" tabindex="-1"></a>    <span class="at">save =</span> <span class="fu">list</span>())</span>
-<span id="cb24-14"><a href="#cb24-14" aria-hidden="true" tabindex="-1"></a><span class="cn">NULL</span></span>
-<span id="cb24-15"><a href="#cb24-15" aria-hidden="true" tabindex="-1"></a></span>
-<span id="cb24-16"><a href="#cb24-16" aria-hidden="true" tabindex="-1"></a>plt_sankey <span class="ot">&lt;-</span></span>
-<span id="cb24-17"><a href="#cb24-17" aria-hidden="true" tabindex="-1"></a><span class="cf">function</span> (data, vars, <span class="at">palette =</span> <span class="cn">NULL</span>, <span class="at">reverse_levels =</span> <span class="cn">TRUE</span>, <span class="at">show_text =</span> <span class="fu">c</span>(<span class="st">"all"</span>, <span class="st">"n"</span>, <span class="st">"pct"</span>,</span>
-<span id="cb24-18"><a href="#cb24-18" aria-hidden="true" tabindex="-1"></a>    <span class="st">"name"</span>), <span class="at">width =</span> <span class="fl">0.4</span>, <span class="at">space =</span> <span class="cn">NULL</span>, <span class="at">label_size =</span> <span class="dv">3</span>, <span class="at">label_hjust =</span> <span class="fl">0.5</span>, <span class="at">alpha =</span> <span class="fl">0.6</span>, <span class="at">base_size =</span> <span class="dv">14</span>)</span>
-<span id="cb24-19"><a href="#cb24-19" aria-hidden="true" tabindex="-1"></a><span class="cn">NULL</span></span></code></pre></div><button title="复制到剪贴板" class="code-copy-button"><i class="bi"></i></button></div>
+<div class="code-copy-outer-scaffold"><div class="sourceCode" id="cb28"><pre class="sourceCode r code-with-copy"><code class="sourceCode r"><span id="cb28-1"><a href="#cb28-1" aria-hidden="true" tabindex="-1"></a>plt_dist <span class="ot">&lt;-</span></span>
+<span id="cb28-2"><a href="#cb28-2" aria-hidden="true" tabindex="-1"></a><span class="cf">function</span> (data, dis_vars, <span class="at">type =</span> <span class="fu">c</span>(<span class="st">"alluvial"</span>, <span class="st">"bar"</span>), <span class="at">facet =</span> <span class="cn">NULL</span>, <span class="at">color =</span> <span class="cn">NULL</span>, <span class="at">alpha =</span> <span class="fl">0.7</span>,</span>
+<span id="cb28-3"><a href="#cb28-3" aria-hidden="true" tabindex="-1"></a>    <span class="at">label =</span> <span class="fu">c</span>(<span class="st">"count_percent"</span>, <span class="st">"count"</span>, <span class="st">"percent"</span>, <span class="st">"none"</span>), <span class="at">gap =</span> <span class="fl">0.01</span>, <span class="at">curve_type =</span> <span class="st">"linear"</span>,</span>
+<span id="cb28-4"><a href="#cb28-4" aria-hidden="true" tabindex="-1"></a>    <span class="at">theme_use =</span> <span class="fu">theme_heat</span>(<span class="dv">14</span>))</span>
+<span id="cb28-5"><a href="#cb28-5" aria-hidden="true" tabindex="-1"></a><span class="cn">NULL</span></span>
+<span id="cb28-6"><a href="#cb28-6" aria-hidden="true" tabindex="-1"></a></span>
+<span id="cb28-7"><a href="#cb28-7" aria-hidden="true" tabindex="-1"></a>plt_alluvial <span class="ot">&lt;-</span></span>
+<span id="cb28-8"><a href="#cb28-8" aria-hidden="true" tabindex="-1"></a><span class="cf">function</span> (data, cat_var, group, <span class="at">facet =</span> <span class="cn">NULL</span>, <span class="at">y_type =</span> <span class="fu">c</span>(<span class="st">"percent"</span>, <span class="st">"count"</span>), <span class="at">color =</span> pal_lancet,</span>
+<span id="cb28-9"><a href="#cb28-9" aria-hidden="true" tabindex="-1"></a>    <span class="at">flow_args =</span> <span class="fu">list</span>(<span class="at">alpha =</span> <span class="fl">0.4</span>, <span class="at">curve_type =</span> <span class="st">"linear"</span>), <span class="at">stratum_args =</span> <span class="fu">list</span>(<span class="at">width =</span> <span class="fl">0.5</span>,</span>
+<span id="cb28-10"><a href="#cb28-10" aria-hidden="true" tabindex="-1"></a>        <span class="at">color =</span> <span class="st">"gray50"</span>, <span class="at">linewidth =</span> <span class="fl">0.3</span>, <span class="at">gap =</span> <span class="fl">0.01</span>), <span class="at">label_args =</span> <span class="fu">list</span>(<span class="at">style =</span> <span class="st">"count_percent"</span>,</span>
+<span id="cb28-11"><a href="#cb28-11" aria-hidden="true" tabindex="-1"></a>        <span class="at">min_pct =</span> <span class="dv">0</span>, <span class="at">size =</span> <span class="dv">3</span>, <span class="at">color =</span> <span class="st">"black"</span>, <span class="at">box =</span> <span class="cn">TRUE</span>, <span class="at">fill =</span> <span class="st">"white"</span>, <span class="at">alpha =</span> <span class="dv">1</span>), <span class="at">facet_args =</span> <span class="fu">list</span>(<span class="at">nrow =</span> <span class="cn">NULL</span>,</span>
+<span id="cb28-12"><a href="#cb28-12" aria-hidden="true" tabindex="-1"></a>        <span class="at">ncol =</span> <span class="cn">NULL</span>, <span class="at">scales =</span> <span class="st">"fixed"</span>), <span class="at">legend_args =</span> <span class="fu">list</span>(<span class="at">ncol =</span> <span class="dv">1</span>, <span class="at">position =</span> <span class="st">"right"</span>), <span class="at">theme_use =</span> <span class="fu">theme_alluvia</span>(<span class="dv">15</span>),</span>
+<span id="cb28-13"><a href="#cb28-13" aria-hidden="true" tabindex="-1"></a>    <span class="at">save =</span> <span class="fu">list</span>())</span>
+<span id="cb28-14"><a href="#cb28-14" aria-hidden="true" tabindex="-1"></a><span class="cn">NULL</span></span>
+<span id="cb28-15"><a href="#cb28-15" aria-hidden="true" tabindex="-1"></a></span>
+<span id="cb28-16"><a href="#cb28-16" aria-hidden="true" tabindex="-1"></a>plt_sankey <span class="ot">&lt;-</span></span>
+<span id="cb28-17"><a href="#cb28-17" aria-hidden="true" tabindex="-1"></a><span class="cf">function</span>(data, vars, <span class="at">palette =</span> <span class="cn">NULL</span>, <span class="at">reverse_levels =</span> <span class="cn">TRUE</span>,</span>
+<span id="cb28-18"><a href="#cb28-18" aria-hidden="true" tabindex="-1"></a>  <span class="at">show_text =</span> <span class="fu">c</span>(<span class="st">"all"</span>, <span class="st">"n"</span>, <span class="st">"pct"</span>, <span class="st">"name"</span>, <span class="st">"all_wrap"</span>, <span class="st">"none"</span>),</span>
+<span id="cb28-19"><a href="#cb28-19" aria-hidden="true" tabindex="-1"></a>  <span class="at">flow_args =</span> <span class="fu">list</span>(<span class="at">alpha =</span> <span class="fl">0.6</span>, <span class="at">fill =</span> <span class="st">"grey"</span>, <span class="at">color =</span> <span class="st">"grey80"</span>, <span class="at">smooth =</span> <span class="dv">8</span>),</span>
+<span id="cb28-20"><a href="#cb28-20" aria-hidden="true" tabindex="-1"></a>  <span class="at">node_args =</span> <span class="fu">list</span>(<span class="at">width =</span> <span class="fl">0.4</span>, <span class="at">space =</span> <span class="cn">NULL</span>, <span class="at">color =</span> <span class="cn">NA</span>, <span class="at">linewidth =</span> <span class="cn">NULL</span>),</span>
+<span id="cb28-21"><a href="#cb28-21" aria-hidden="true" tabindex="-1"></a>  <span class="at">label_args =</span> <span class="fu">list</span>(<span class="at">size =</span> <span class="dv">3</span>, <span class="at">lineheight =</span> <span class="fl">1.2</span>, <span class="at">hjust =</span> <span class="fl">0.5</span>, <span class="at">color =</span> <span class="st">"black"</span>,</span>
+<span id="cb28-22"><a href="#cb28-22" aria-hidden="true" tabindex="-1"></a>    <span class="at">box =</span> <span class="cn">TRUE</span>, <span class="at">fill =</span> <span class="st">"white"</span>, <span class="at">alpha =</span> <span class="dv">1</span>, <span class="at">min_pct =</span> <span class="dv">0</span>, <span class="at">pct_accuracy =</span> <span class="fl">0.1</span>),</span>
+<span id="cb28-23"><a href="#cb28-23" aria-hidden="true" tabindex="-1"></a>  <span class="at">base_size =</span> <span class="dv">14</span>, <span class="at">theme_use =</span> <span class="cn">NULL</span>, <span class="at">save =</span> <span class="fu">list</span>())</span>
+<span id="cb28-24"><a href="#cb28-24" aria-hidden="true" tabindex="-1"></a><span class="cn">NULL</span></span></code></pre></div><button title="复制到剪贴板" class="code-copy-button"><i class="bi"></i></button></div>
 </details>
 </section>
 <section id="references" class="level2">
 <h2 class="anchored" data-anchor-id="references">验证范围与参考</h2>
-<p>本页列出的调用均已实际执行；所有展示的 ggplot/patchwork 图通过 <code>ggplot_build()</code> 和 PNG 导出，表格来自同一组代码的实际返回。未修改 UtilsR 源码或重新运行全包测试。</p>
+<p>原有 Alluvial / bar 图保留历史执行记录；本次实际执行所有 Sankey 调用并完成构建、PNG 导出及 PDF 保存。格式和标签控制不改变节点计数；未修改 UtilsR 源码。</p>
 <p>本次绘制出现的提示记录如下；对应示例仍通过实际构建和导出检查。</p>
 <details>
 <summary>

diff --git a/docs/index.html b/docs/index.html
@@ -1566,7 +1566,7 @@ LabR    Suggests -&gt; UtilsR</code></pre>
 <td style="text-align: left;">模型评估与验证</td>
 <td style="text-align: left;">2026-10-01</td>
 </tr>
-<tr class="odd" data-keywords="c data.frame element_rect expand.grid factor file.exists file.info file.path function ggplot_build library list namespace plt_alluvial plt_dist plt_sankey sample set.seed stopifnot system tempdir theme_alluvia theme_heat">
+<tr class="odd" data-keywords="c data.frame element_rect expand.grid factor file.exists file.info file.path function library list namespace plt_alluvial plt_dist plt_sankey sample set.seed stopifnot system tempdir theme_alluvia theme_heat">
 <td style="text-align: left;">UtilsR</td>
 <td style="text-align: left;"><a href="./utilsr/flow-guide.html">分类分布与流向：Alluvial、Sankey 与两行标签</a></td>
 <td style="text-align: left;">绘图与格式化</td>
